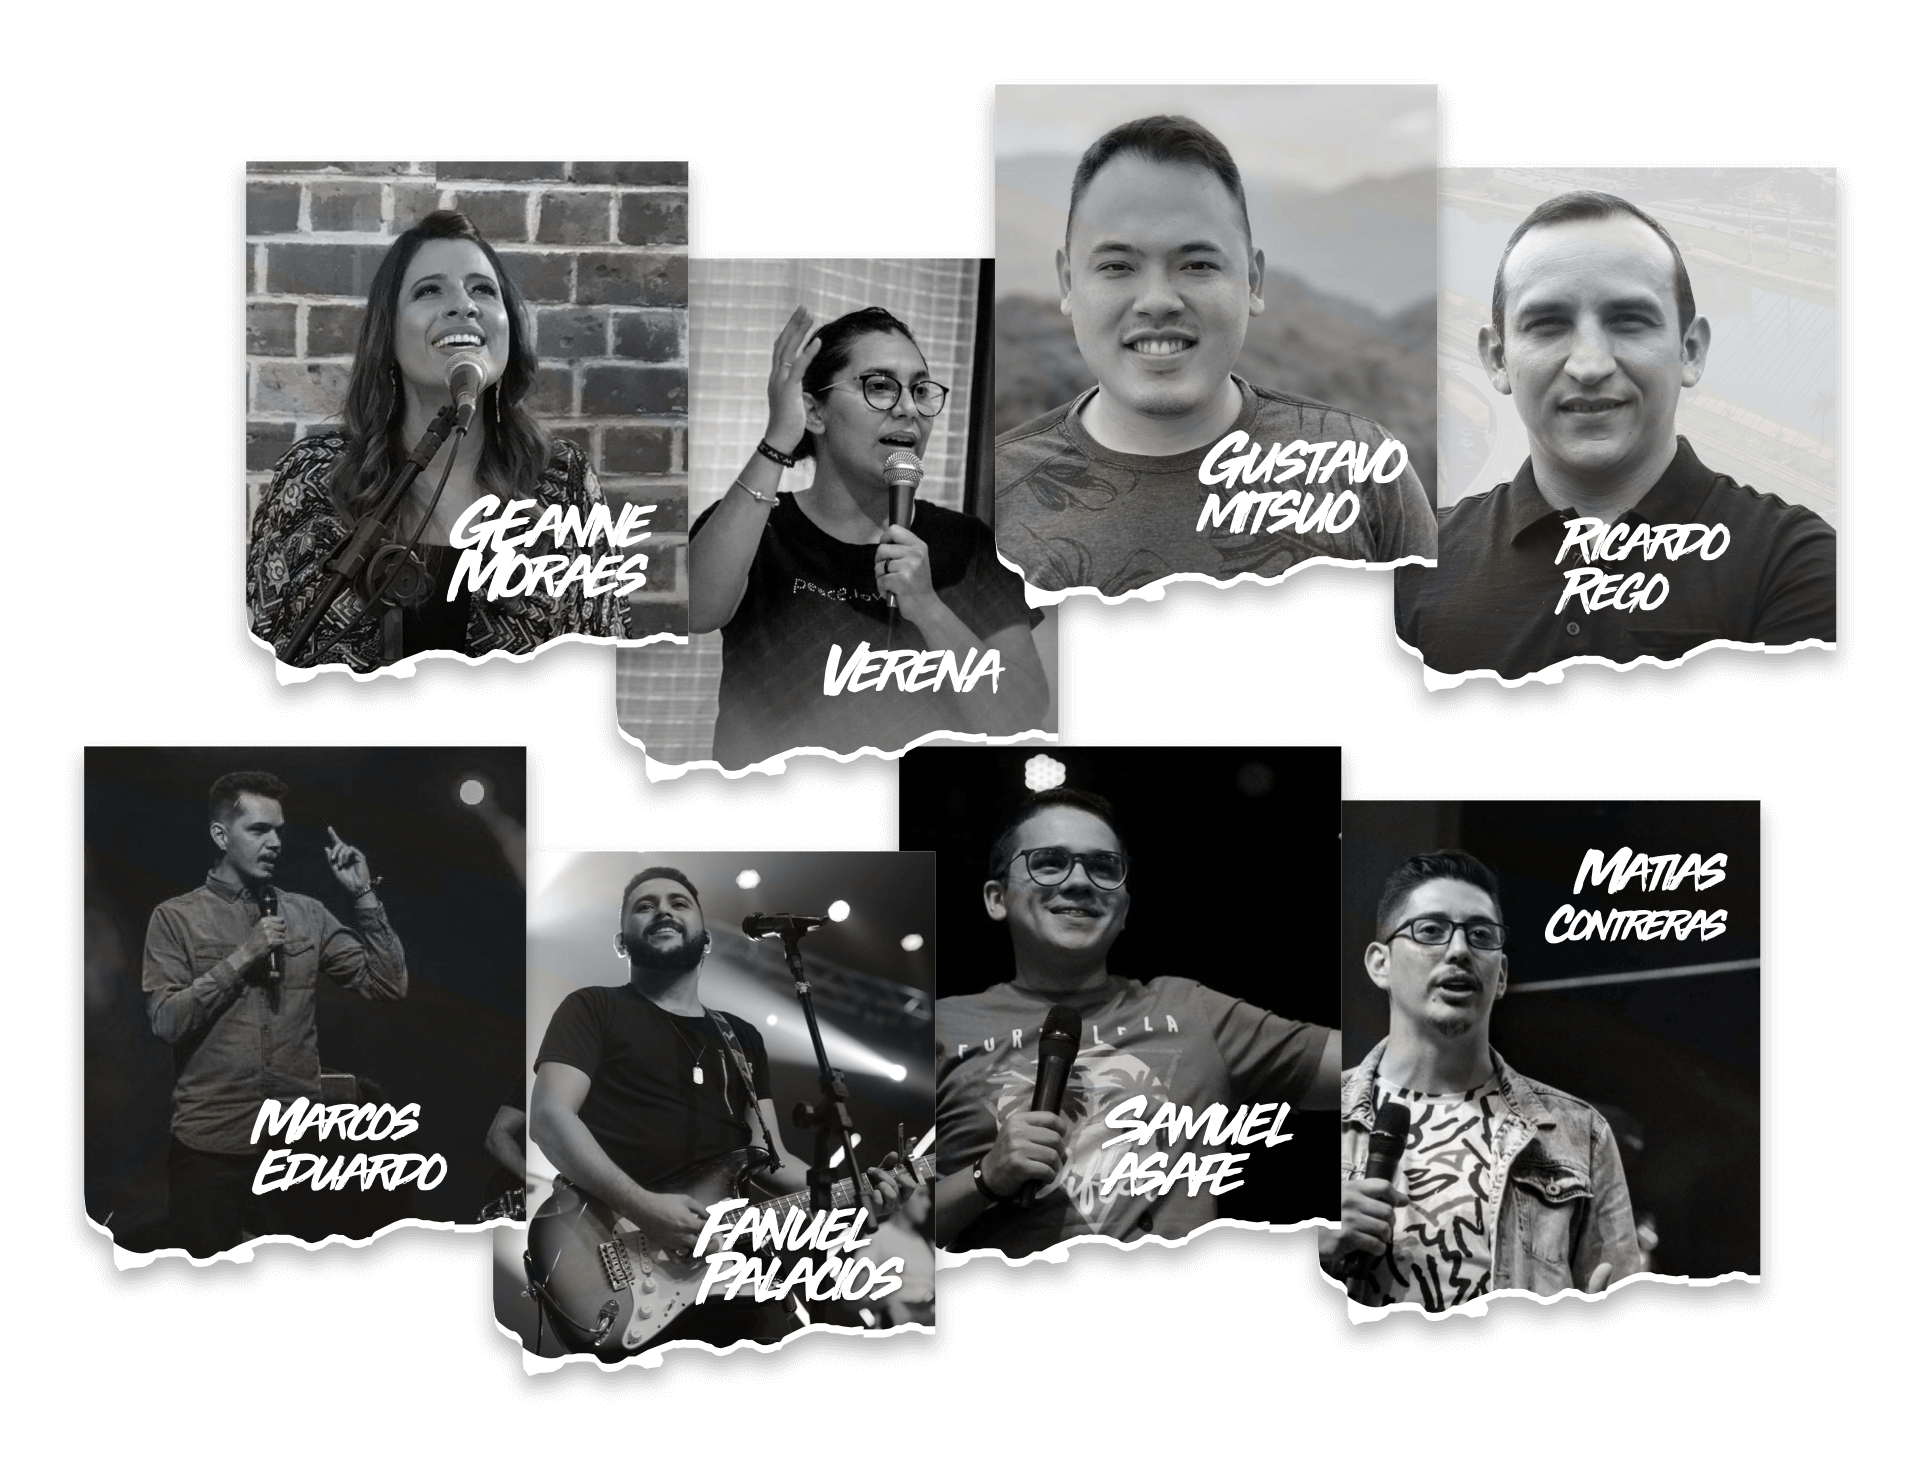
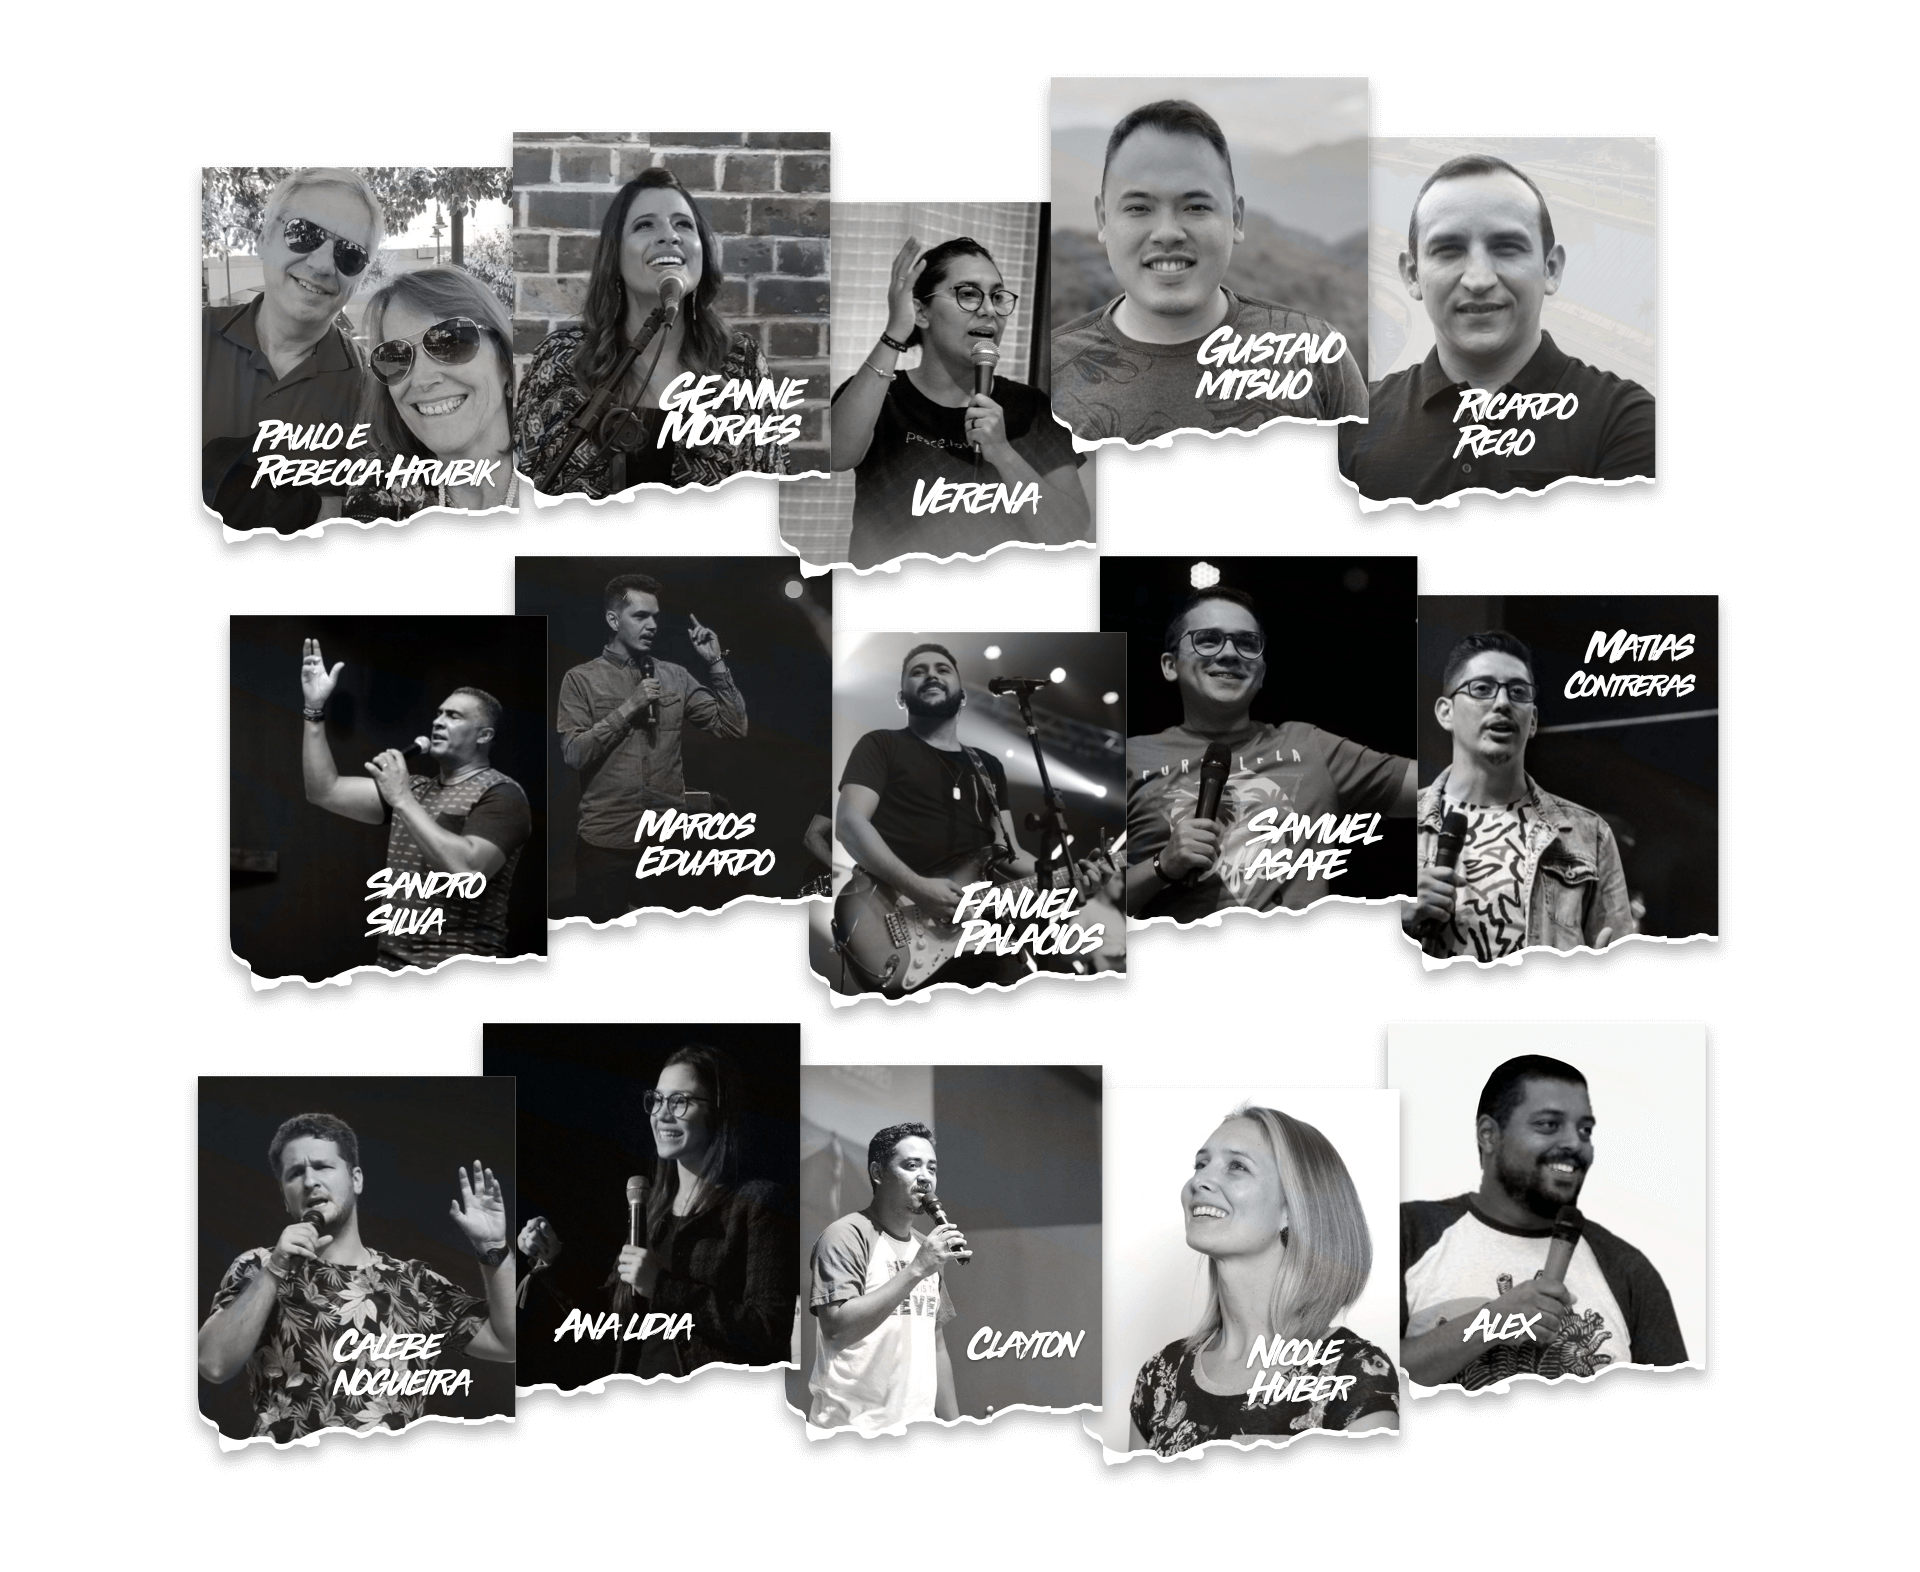
Ajustes

diff --git a/index.html b/index.html
@@ -45,7 +45,7 @@
                         <a class="nav-link js-scroll" href="#about">Movimento</a>
                     </li>
                     <li class="nav-item">
-                        <a class="nav-link js-scroll" href="#preletores">Preletores</a>
+                        <a class="nav-link js-scroll" href="#preletores">Convidados</a>
                     </li>
                     <li class="nav-item">
                         <a class="nav-link js-scroll" href="#bandas">Bandas</a>
@@ -143,11 +143,11 @@
                         <h4 class="display-6 fontGlobal">Diflen Global</h4>
                         <p class="lead">Nossa conferência reúne jovens de todo Brasil e de todo mundo para trocar experiências, crescer espiritualmente, estabelecer relacionamentos, com muitas palavras que edificam, workshops e programações incríveis com vários convidados nacionais e internacionais.
                             <br />
-                            <br /><strong>Confira o que rolou na conferência do ano passado:</strong></p>
+                            <br /><strong>Teaser We are Global</strong></p>
                     </div>
                     <!-- 16:9 aspect ratio -->
                     <div class="embed-responsive embed-responsive-16by9 space-bottom">
-                        <iframe src="https://www.youtube.com/embed/fjdgxAg9tD0" frameborder="0" allow="accelerometer; autoplay; encrypted-media; gyroscope; picture-in-picture" allowfullscreen></iframe>
+                        <iframe src="https://www.youtube.com/embed/w9I-fKVKJ3Q" frameborder="0" allow="accelerometer; autoplay; encrypted-media; gyroscope; picture-in-picture" allowfullscreen></iframe>
                     </div>
                 </div>
             </div>
@@ -160,33 +160,39 @@
             <div class="row">
                 <div class="col-sm-12">
                     <div class="title-box text-center">
-                        <h3 class="title-a fontGlobal">Preletores Confirmados</h3>
-                        <p class="subtitle-a">Veja os preletores convidados até o momento...</p>
+                        <h3 class="title-a fontGlobal">Convidados Confirmados</h3>
+                        <p class="subtitle-a">Veja os convidados até o momento...</p>
                         <div class="line-mf"></div>
                     </div>
                 </div>
             </div>
             <div class="row">
+                    <div class="col-md-6">
+                            <div class="box">
+                                <img src="img/zoe.png"></img>
+                                <h4 class="display-7 text-center fontGlobal">Zoe Lilly</h4>
+                                <p class="subtitle-a text-center">Zoe é uma artista e usa seus dons para impactar a sociedade, levando amor, paz e esperança por onde passa. Seu desejo é ver verdadeiros adoradores que ama o Senhor e tem intimidade com Ele, e vivem além do que apenas os seus olhos físicos enxergam. Para isso, além de ministrar adoração, Zoe realiza workshops para equipar líderes e ministros de louvor e adoração em toda a igreja brasileira.</p>        
+                            </div>
+                        </div>
+                        <div class="col-md-6">
+                                <div class="box">
+                                    <img src="img/lucinho.png"></img>
+                                    <h4 class="display-7 text-center fontGlobal">Pr. Lucinho Barreto</h4>
+                                    <p class="subtitle-a text-center">Lúcio Barreto Júnior é pastor na Igreja Batista da Lagoinha. Casado com Patrícia Barreto, pai da Emily e do Davi, Pr. Lucinho, dedica sua vida para evangelizar, preparar e equipar jovens e igrejas para falar do amor de Jesus e a viver este amor com intensidade. Junto com sua família, realiza diversas viagens missionárias e ações sociais a fim de levar o amor de Deus – seja por meio do serviço, seja pela própria palavra divina. Já viajou para o Índia, Haiti, Jordânia e Nepal.</p>
+                                </div>
+                            </div>
+                            <div class="col-md-6">
+                                    <div class="box">
+                                        <img src="img/isaias.png"></img>
+                                        <h4 class="display-7 text-center fontGlobal">Pr. Isaías Huber</h4>
+                                        <p class="subtitle-a text-center">Líder internacional do movimento DIFLEN. Pastor de jovens há muitos anos, ele tem atuado na missão de inspirar e levantar jovens, para que sejam influentes em todas as esferas da sociedade e em todas as nações.</p>
+                                    </div>
+                                </div>
                 <div class="col-md-6">
                     <div class="box">
                         <img src="img/nelson.png"></img>
                         <h4 class="display-7 text-center fontGlobal">Pr. Nelson Junior</h4>
                         <p class="subtitle-a text-center">Pastor, escritor, palestrante, capelão internacional, coordenador e idealizador do movimento Eu escolhi esperar. Bacharel em Teologia, Mestrado em Comportamento e Pós Graduado em Gestão e Liderança.</p>
-                    </div>
-                </div>
-                <div class="col-md-6">
-                    <div class="box">
-                        <img src="img/isaias.png"></img>
-                        <h4 class="display-7 text-center fontGlobal">Pr. Isaías Huber</h4>
-                        <p class="subtitle-a text-center">Líder internacional do movimento DIFLEN. Pastor de jovens há muitos anos, ele tem atuado na missão de inspirar e levantar jovens, para que sejam influentes em todas as esferas da sociedade e em todas as nações.</p>
-                    </div>
-                </div>
-
-                <div class="col-md-6">
-                    <div class="box">
-                        <img src="img/lucinho.png"></img>
-                        <h4 class="display-7 text-center fontGlobal">Pr. Lucinho Barreto</h4>
-                        <p class="subtitle-a text-center">Lúcio Barreto Júnior é pastor na Igreja Batista da Lagoinha. Casado com Patrícia Barreto, pai da Emily e do Davi, Pr. Lucinho, dedica sua vida para evangelizar, preparar e equipar jovens e igrejas para falar do amor de Jesus e a viver este amor com intensidade. Junto com sua família, realiza diversas viagens missionárias e ações sociais a fim de levar o amor de Deus – seja por meio do serviço, seja pela própria palavra divina. Já viajou para o Índia, Haiti, Jordânia e Nepal.</p>
                     </div>
                 </div>
                 <div class="col-md-6">
@@ -210,14 +216,14 @@
     </section>
     <!--/ Section Preletores End /-->
 
-    <!--/ Section Banda Init /-->
+    <!--/ Section Atracoes /-->
     <section id="workshop" class="portfolio-mf sect-pt4 route">
         <div class="container">
             <div class="row">
                 <div class="col-sm-12">
                     <div class="title-box text-center">
-                        <h3 class="title-a fontGlobal">Workshops</h3>
-                        <p class="subtitle-a">Veja os preletores que estarão nos Workshops</p>
+                        <h3 class="title-a fontGlobal">Mais atrações</h3>
+                        <p class="subtitle-a">Veja mais convidados que estarão na conferência</p>
                         <div class="line-mf"></div>
                     </div>
                 </div>
@@ -231,11 +237,11 @@
             </div>
             <div class="title-box text-center">
                 <h4 class="display-7 text-center fontGlobal">E muitos outros...</h4>
-                <p class="subtitle-a">Em breve mais preletores</p>
+                <p class="subtitle-a">Em breve mais convidados</p>
             </div>
         </div>
     </section>
-    <!--/ Section Banda End /-->
+    <!--/ Section Atracoes End /-->
 
     <!--/ Section Banda Init /-->
     <section id="bandas" class="portfolio-mf sect-pt4 route">
@@ -250,17 +256,12 @@
                 </div>
             </div>
             <div class="row">
-                <div class="col-md-4">
-                    <div class="box">
-                        <img src="img/zoe.png"></img>
-                    </div>
-                </div>
-                <div class="col-md-4">
+                <div class="col-md-6">
                     <div class="box">
                         <img src="img/daniel.png"></img>
                     </div>
                 </div>
-                <div class="col-md-4">
+                <div class="col-md-6">
                     <div class="box">
                         <img src="img/diflenMusic.png"></img>
                     </div>
@@ -388,6 +389,20 @@
                     </div>
                     <iframe class="space-bottom" src="https://www.google.com/maps/embed?pb=!1m18!1m12!1m3!1d3654.002939125009!2d-46.698205685020056!3d-23.675852884626142!2m3!1f0!2f0!3f0!3m2!1i1024!2i768!4f13.1!3m3!1m2!1s0x94ce51b45342eeb5%3A0x70279f2e7a00e04f!2sIgreja+Apost%C3%B3lica+Novidade+de+Vida!5e0!3m2!1spt-BR!2sbr!4v1555184611675!5m2!1spt-BR!2sbr" width="100%" height="450" frameborder="0" style="border:0" allowfullscreen></iframe>
                 </div>
+        </div>
+        <div class="row">
+                <div class="col-sm-12">
+        <div class="title-box text-center">
+                <h3 class="title-a light fontGlobal">Confira o que no Diflen Global 2018</h3>
+                <div class="line-mf"></div>
+            </div>
+            </div>
+            </div>
+        <!-- 16:9 aspect ratio -->
+        <div class="embed-responsive embed-responsive-16by9 space-bottom">
+            <iframe src="https://www.youtube.com/embed/fjdgxAg9tD0" frameborder="0" allow="accelerometer; autoplay; encrypted-media; gyroscope; picture-in-picture" allowfullscreen></iframe>
+        </div>
+
             </div>
         </div>
 
